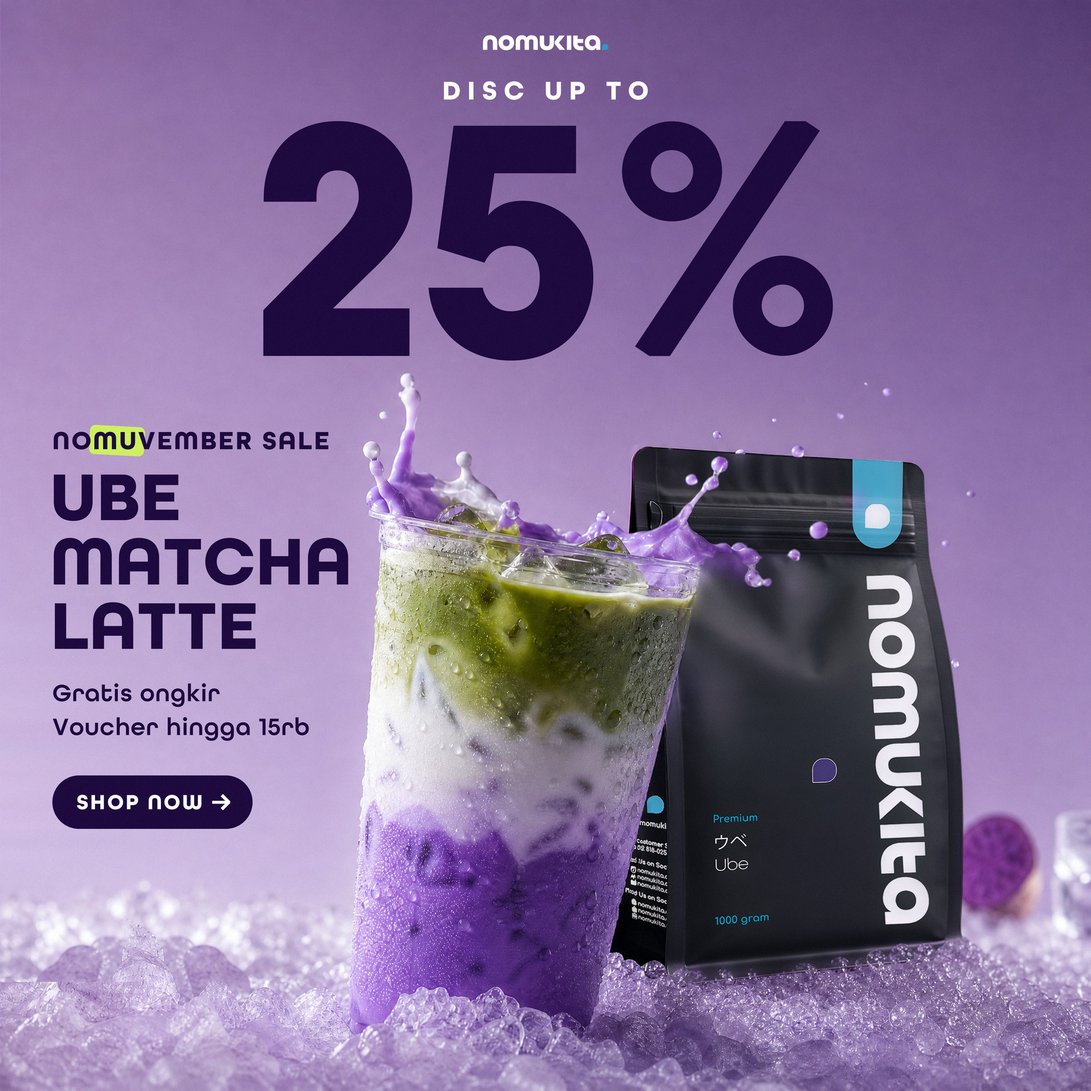
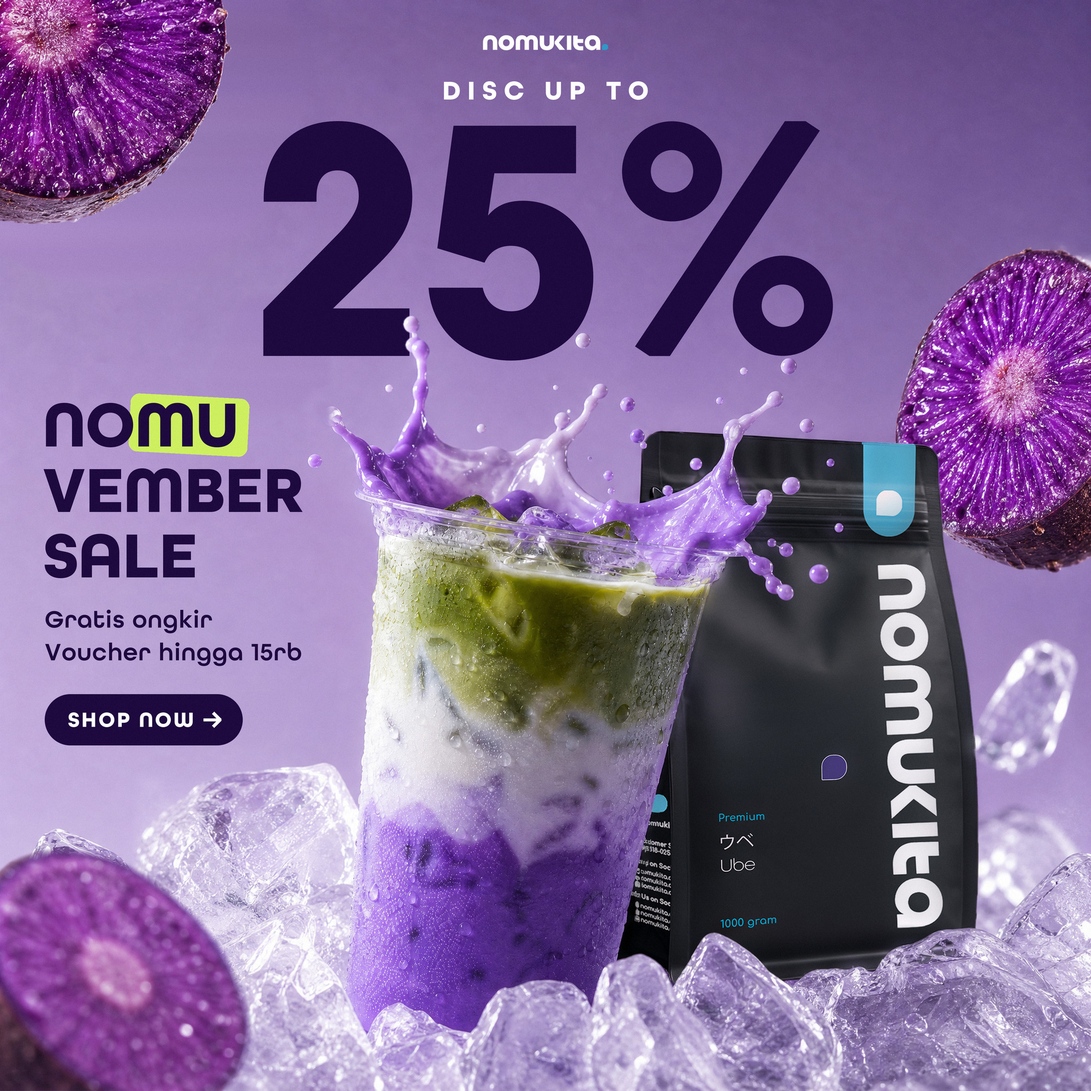
NOMUVEMBER v2: reference-style ice and ube, campaign name as second element
Ice chunks, floating ube rounds and splash follow Referensi N; product
name removed and NOMUVEMBER SALE set large under the 25%. Real Ube
mockup re-pasted again; v1 kept in archive-v1.

Claude-Session: https://claude.ai/code/session_01Bv3a5UzTxRJwy8L4VxmgVZ

diff --git a/banners/nomuvember/scripts/nov_banner.py b/banners/nomuvember/scripts/nov_banner.py
@@ -32,7 +32,7 @@ def erase_left_slice(im):
     out = Image.composite(out.filter(ImageFilter.GaussianBlur(3)), out, m)
     return out
 
-scene = Image.open(N + "/scene2000_clean.png").convert("RGB")   # left ube slice removed (see clean step)
+scene = Image.open(N + "/" + L.get("scene", "scene2_clean.png")).convert("RGB")
 cv = scene.resize((W * K, W * K), Image.LANCZOS).convert("RGBA")
 
 # ---- top block: logo, DISC UP TO, 25% ----
@@ -45,33 +45,50 @@ pct_size = 439 / 0.680          # union height of "2"+"5" = 0.680 em -> 439 px =
 pw, ph = pct_block(cv, W / 2 + L.get("pct_dx", 0), L.get("pct_y", 222), "25", pct_size, fill=INK, align="center")
 print("25% block", round(pw), "x", round(ph), "digit height % of width", round(100 * ph / W, 2))
 
-# ---- left column ----
-x = L.get("col_x", 96)
-y = L.get("lab_y", 792)
-flab = font(ARG_BOLD, L.get("lab_size", 48)); tr = L.get("lab_tr", 3)
-pre, mid, post = "NO", "MU", "VEMBER SALE"
-wpre = text_width(flab, pre, tr) / K + tr; wmid = text_width(flab, mid, tr) / K
-chl = (flab.getbbox("H")[3] - flab.getbbox("H")[1]) / K
-hl = Image.new("RGBA", (int((wmid + 22) * K), int((chl + 22) * K)), (0, 0, 0, 0))
-ImageDraw.Draw(hl).rounded_rectangle([0, 0, hl.width - 1, hl.height - 1], radius=int(10 * K), fill=LIME + (255,))
+# ---- left column: campaign name (2nd in hierarchy) > offers > CTA ----
+x = L.get("col_x", 82)
+fc = font(ARG_BOLD, L.get("camp_size", 120)); ctr = L.get("camp_tr", -1); lh = L.get("camp_lh", 120)
+cy0 = L.get("camp_y", 740)
+chc = (fc.getbbox("H")[3] - fc.getbbox("H")[1]) / K
+# NOMU with the brand half "MU" on a lime marker, then VEMBER, then SALE
+wno = (fc.getlength("N") + fc.getlength("O")) / K + 2 * ctr
+wmu = (fc.getlength("M") + fc.getlength("U")) / K + ctr
+padx, pady = 14, 14
+hl = Image.new("RGBA", (int((wmu + 2 * padx) * K), int((chc + 2 * pady) * K)), (0, 0, 0, 0))
+ImageDraw.Draw(hl).rounded_rectangle([0, 0, hl.width - 1, hl.height - 1], radius=int(16 * K), fill=LIME + (255,))
 hl = hl.rotate(-3, resample=Image.BICUBIC, expand=True)
-cv.alpha_composite(hl, (int((x + wpre - 8) * K), int((y - 11) * K) - int((hl.height - (chl + 22) * K) / 2)))
-draw_text(cv, x, y, pre + mid + post, flab, tr, fill=INK)
-
-fp = font(ARG_BOLD, L.get("prod_size", 128)); lh = L.get("prod_lh", 118)
-py = L.get("prod_y", 870)
-for i, line in enumerate(["UBE", "MATCHA", "LATTE"]):
-    draw_text(cv, x - 4, py + i * lh, line, fp, L.get("prod_tr", 0), fill=INK)
-chp = (fp.getbbox("H")[3] - fp.getbbox("H")[1]) / K
-prod_bottom = py + 2 * lh + chp
+cv.alpha_composite(hl, (int((x + wno - padx) * K) - int((hl.width - (wmu + 2 * padx) * K) / 2),
+                        int((cy0 - pady) * K) - int((hl.height - (chc + 2 * pady) * K) / 2)))
+widths = []
+for i, line in enumerate(["NOMU", "VEMBER", "SALE"]):
+    widths.append(draw_text(cv, x - 4, cy0 + i * lh, line, fc, ctr, fill=INK))
+camp_bottom = cy0 + 2 * lh + chc
 fo = font(ARG_DEMI, L.get("off_size", 46))
-oy = prod_bottom + L.get("gap_off", 66)
+oy = camp_bottom + L.get("gap_off", 62)
 draw_text(cv, x, oy, "Gratis ongkir", fo, 1, fill=INK)
-draw_text(cv, x, oy + L.get("off_lh", 62), "Voucher hingga 15rb", fo, 1, fill=INK)
-cy = oy + L.get("off_lh", 62) + L.get("gap_cta", 104)
-pill_button(cv, x, cy, "SHOP NOW", L.get("cta_size", 40), L.get("cta_h", 98), L.get("cta_pad", 44), fill=INK, text=WHITE, arrow=True, tr=3)
-print("blocks y: label", y, "product", py, "-", round(prod_bottom), "offers", round(oy), "cta", round(cy), "-", round(cy + L.get("cta_h", 98)))
+draw_text(cv, x, oy + L.get("off_lh", 60), "Voucher hingga 15rb", fo, 1, fill=INK)
+ctay = oy + L.get("off_lh", 60) + L.get("gap_cta", 92)
+pill_button(cv, x, ctay, "SHOP NOW", L.get("cta_size", 40), L.get("cta_h", 94), L.get("cta_pad", 42), fill=INK, text=WHITE, arrow=True, tr=3)
+print("campaign widest line", round(max(widths)), "right edge", round(x - 4 + max(widths)), "| blocks y: campaign", cy0, "-", round(camp_bottom),
+      "offers", round(oy), "cta", round(ctay), "-", round(ctay + L.get("cta_h", 94)))
 
+# splash crown in FRONT of the 25%: put the scene's violet splash pixels back over the type (depth, like the reference)
+if L.get("splash_front", True):
+    import cv2
+    sc = np.asarray(scene).astype(np.float32)
+    # splash = whatever stands out from the smooth local background (bg estimated with a wide median)
+    bg = cv2.medianBlur(sc.astype(np.uint8), 61).astype(np.float32)
+    dev = np.abs(sc - bg).max(axis=2)
+    spl = dev > 22
+    zone = np.zeros_like(spl); zone[470:720, 560:1600] = True
+    spl = (spl & zone).astype(np.uint8)
+    spl = cv2.morphologyEx(spl, cv2.MORPH_OPEN, np.ones((3, 3), np.uint8))
+    spl = cv2.morphologyEx(spl, cv2.MORPH_CLOSE, np.ones((5, 5), np.uint8))
+    print("splash-in-front px", int(spl.sum()))
+    m = cv2.GaussianBlur(spl.astype(np.float32), (0, 0), 0.9)
+    m = Image.fromarray((m * 255).astype(np.uint8)).resize((W * K, W * K), Image.LANCZOS)
+    front = scene.resize((W * K, W * K), Image.LANCZOS).convert("RGBA"); front.putalpha(m)
+    cv.alpha_composite(front)
 out = cv.convert("RGB").resize((W, W), Image.LANCZOS)
 a = np.asarray(out).astype(np.float32)
 a += np.random.default_rng(11).normal(0, 1.8, a.shape[:2])[..., None]

diff --git a/banners/nomuvember/scripts/repouch2.py b/banners/nomuvember/scripts/repouch2.py
@@ -1,0 +1,57 @@
+import cv2, numpy as np, sys
+SRC, AFILE, OUT = sys.argv[1], sys.argv[2], sys.argv[3]
+CUP = [tuple(map(int, p.split(','))) for p in sys.argv[4].split(';')]
+ICE_Y = int(sys.argv[5])
+from PIL import Image
+ai = np.asarray(Image.open(SRC).convert('RGB')).astype(np.float32)
+p = Image.open('mockup_ube.png').convert('RGBA'); p = p.crop(p.getbbox())
+pa = np.asarray(p).astype(np.float32)
+A = np.load(AFILE); S = ai.shape[0]
+P = cv2.warpAffine(pa, A, (S, S), flags=cv2.INTER_LANCZOS4, borderValue=0)
+rgb, al = P[..., :3], np.clip(P[..., 3] / 255.0, 0, 1)
+inside = al > 0.98
+
+def shade(valid, sigma=18):
+    w = valid.astype(np.float32)
+    num = cv2.GaussianBlur(ai * w[..., None], (0, 0), sigma); den = cv2.GaussianBlur(rgb * w[..., None], (0, 0), sigma)
+    ratio = (num + 8) / (den + 8)
+    return np.clip(ratio, 0.45, 2.6)
+
+def occluders(Pl, thr=55, k=9, min_area=350):
+    d = np.abs(ai - Pl).max(axis=2)
+    m = ((d > thr) & (al > 0.5)).astype(np.uint8)
+    m = cv2.morphologyEx(m, cv2.MORPH_OPEN, cv2.getStructuringElement(cv2.MORPH_ELLIPSE, (k, k)))
+    n, lab, st, _ = cv2.connectedComponentsWithStats(m)
+    keep = np.zeros_like(m)
+    for i in range(1, n):
+        if st[i, cv2.CC_STAT_AREA] >= min_area: keep[lab == i] = 1
+    keep = cv2.morphologyEx(keep, cv2.MORPH_CLOSE, cv2.getStructuringElement(cv2.MORPH_ELLIPSE, (15, 15)))
+    return keep.astype(bool)
+
+r1 = shade(inside); P1 = np.clip(rgb * r1, 0, 255)
+occ = occluders(P1)
+r2 = shade(inside & ~occ); P2 = np.clip(rgb * r2, 0, 255)
+occ = occluders(P2)
+r3 = shade(inside & ~occ, sigma=14); P3 = np.clip(rgb * r3, 0, 255)
+occ = occluders(P3, thr=50)
+# the clear cup in front of the pouch: straight tapered right edge measured on the AI frame
+from PIL import ImageDraw
+cupm = Image.new("L", (S, S), 0)
+ImageDraw.Draw(cupm).polygon(CUP, fill=255)
+cupm = np.asarray(cupm) > 0
+lum_ai = ai.mean(axis=2)
+ice = (np.arange(S)[:, None] > ICE_Y) & (lum_ai > 100)
+ice = cv2.morphologyEx(ice.astype(np.uint8), cv2.MORPH_OPEN, np.ones((3, 3), np.uint8)).astype(bool)
+# violet splash and droplets flying in front of the pouch (the pouch's own purple mark is far darker)
+spl = ((ai[..., 2] - ai[..., 1]) > 38) & (lum_ai > 112)
+spl = cv2.morphologyEx(spl.astype(np.uint8), cv2.MORPH_OPEN, np.ones((3, 3), np.uint8))
+spl = cv2.dilate(cv2.morphologyEx(spl, cv2.MORPH_CLOSE, np.ones((9, 9), np.uint8)), np.ones((5, 5), np.uint8)).astype(bool)
+occ = occ | cupm | ice | spl
+# composite weight: original pouch where alpha, minus occluders (feathered)
+a_er = cv2.erode((al * 255).astype(np.uint8), np.ones((3, 3), np.uint8)).astype(np.float32) / 255
+w = a_er * (1 - cv2.GaussianBlur(occ.astype(np.float32), (0, 0), 1.6))
+w = cv2.GaussianBlur(w, (0, 0), 0.8)
+out = ai * (1 - w[..., None]) + P3 * w[..., None]
+Image.fromarray(np.clip(out, 0, 255).astype(np.uint8)).save(OUT)
+Image.fromarray((occ * 255).astype(np.uint8)).save(OUT.replace('.png','_occ.png'))
+print("occluder px", int(occ.sum()))

diff --git a/banners/nomuvember/scripts/clean2.py b/banners/nomuvember/scripts/clean2.py
@@ -1,0 +1,49 @@
+import cv2, numpy as np
+from PIL import Image
+im = np.asarray(Image.open('REPOUCH2.png').convert('RGB').resize((2000, 2000), Image.LANCZOS)).astype(np.float32)
+H, W, _ = im.shape
+rng = np.random.default_rng(12)
+
+def row_model(img, y0, y1, xs):
+    """Per-row linear background fit over the clean columns xs, evaluated on all columns."""
+    m = np.zeros((y1 - y0, W, 3), np.float32); X = np.arange(W)
+    for i, y in enumerate(range(y0, y1)):
+        for c in range(3):
+            a, b = np.polyfit(xs, img[y, xs, c], 1); m[i, :, c] = a * X + b
+    return cv2.GaussianBlur(m, (0, 0), sigmaX=1, sigmaY=6)
+
+def fill(img, box, xs, thr=12, grow=15):
+    x0, y0, x1, y1 = box
+    m = row_model(img, y0, y1, xs)
+    d = np.abs(img[y0:y1] - m).max(axis=2)
+    mask = np.zeros((y1 - y0, W), np.uint8); mask[:, x0:x1] = (d[:, x0:x1] > thr)
+    mask = cv2.morphologyEx(mask, cv2.MORPH_CLOSE, np.ones((25, 25), np.uint8))
+    mask = cv2.dilate(mask, np.ones((grow, grow), np.uint8)).astype(np.float32)
+    mask = cv2.GaussianBlur(mask, (0, 0), 5)[..., None]
+    fillv = m + rng.normal(0, 1.4, m.shape[:2])[..., None]
+    img[y0:y1] = img[y0:y1] * (1 - mask) + fillv * mask
+    return img
+
+orig = im.copy()
+# 1) floating ice chunks inside the text column
+im = fill(im, (360, 530, 600, 800), np.r_[110:360])
+im = fill(im, (380, 1245, 560, 1385), np.r_[120:380, 570:630])
+# 2) top-left ube: lift it out, rebuild the background, put it back shifted up-left
+y0, y1 = 0, 600
+m = row_model(orig, y0, y1, np.r_[640:1000])
+d = np.abs(orig[y0:y1] - m).max(axis=2)
+ube = np.zeros((y1 - y0, W), np.uint8); ube[:, :620] = d[:, :620] > 16
+n, lab, st, _ = cv2.connectedComponentsWithStats(ube)
+big = 1 + np.argmax(st[1:, cv2.CC_STAT_AREA]); ube = (lab == big).astype(np.uint8)
+ube = cv2.morphologyEx(ube, cv2.MORPH_CLOSE, np.ones((21, 21), np.uint8))
+cnts, _ = cv2.findContours(ube, cv2.RETR_EXTERNAL, cv2.CHAIN_APPROX_SIMPLE); cv2.drawContours(ube, cnts, -1, 1, -1)
+soft = cv2.GaussianBlur(ube.astype(np.float32), (0, 0), 1.6)
+grow = cv2.GaussianBlur(cv2.dilate(ube, np.ones((17, 17), np.uint8)).astype(np.float32), (0, 0), 5)
+bgfill = m + rng.normal(0, 1.4, m.shape[:2])[..., None]
+im[y0:y1] = im[y0:y1] * (1 - grow[..., None]) + bgfill * grow[..., None]
+DX, DY = -135, -105
+src = orig[y0:y1]; M = np.float32([[1, 0, DX], [0, 1, DY]])
+sh = cv2.warpAffine(src, M, (W, y1 - y0)); shm = cv2.warpAffine(soft, M, (W, y1 - y0))
+im[y0:y1] = im[y0:y1] * (1 - shm[..., None]) + sh * shm[..., None]
+ys, xs_ = np.where(shm > 0.5); print("ube now x", xs_.min(), xs_.max(), "y", ys.min(), ys.max())
+Image.fromarray(np.clip(im, 0, 255).astype(np.uint8)).save('scene2_clean.png')

diff --git a/banners/nomuvember/README.md b/banners/nomuvember/README.md
@@ -1,6 +1,19 @@
 # NOMUVEMBER, banner toko marketplace (Ube Matcha Latte)
 
-File: `nomuvember-ube-matcha-latte.jpg` (1:1, 2000 x 2000 px, JPG, sekitar 0,9 MB)
+File: `nomuvember-ube-matcha-latte.jpg` (1:1, 2000 x 2000 px, JPG, 1,12 MB). Versi pertama di `archive-v1/`.
+
+Revisi v2
+- Es dan ube mengikuti bentuk di Referensi N: tumpukan bongkahan es kristal bening bersegi, es melayang, dan potongan
+  ube bulat besar dengan sisi potongan menghadap kamera, melayang seperti buah di referensi (kiri atas, kanan,
+  kiri bawah). Cipratan di bibir gelas dibuat lebih besar dan bervolume.
+- UBE MATCHA LATTE dihapus. Hierarki: 25% > NOMUVEMBER SALE (tiga baris NOMU / VEMBER / SALE, MU di atas penanda lime)
+  > Gratis ongkir / Voucher hingga 15rb > SHOP NOW.
+- Ujung cipratan menembus ke depan dasar angka 25 untuk kedalaman, seperti di referensi.
+- Ube kiri atas digeser agar tidak menyentuh angka; dua bongkah es melayang di kolom teks dihapus.
+- Pouch asli ditempel ulang (registrasi SIFT skala 1,00, rotasi 0,28 derajat), cipratan di depannya dipertahankan.
+- Tinggi angka terukur 439 px (21,95%). Kontras terburuk: logo 5,2:1, DISC UP TO 4,7:1, 25% 3,5:1,
+  NOMUVEMBER SALE 6,7:1, penawaran 7,4:1, tombol 8,4:1 terhadap latar.
+- Kredit kie.ai v2: 10 (satu image-to-image dengan Referensi N sebagai acuan gaya).
 
 Kenapa 1:1, bukan 2:1
 - Tinggi angka "25" di referensi himhim7_23 diukur per piksel: 237 px pada lebar 1080 px = 21,94% lebar gambar
